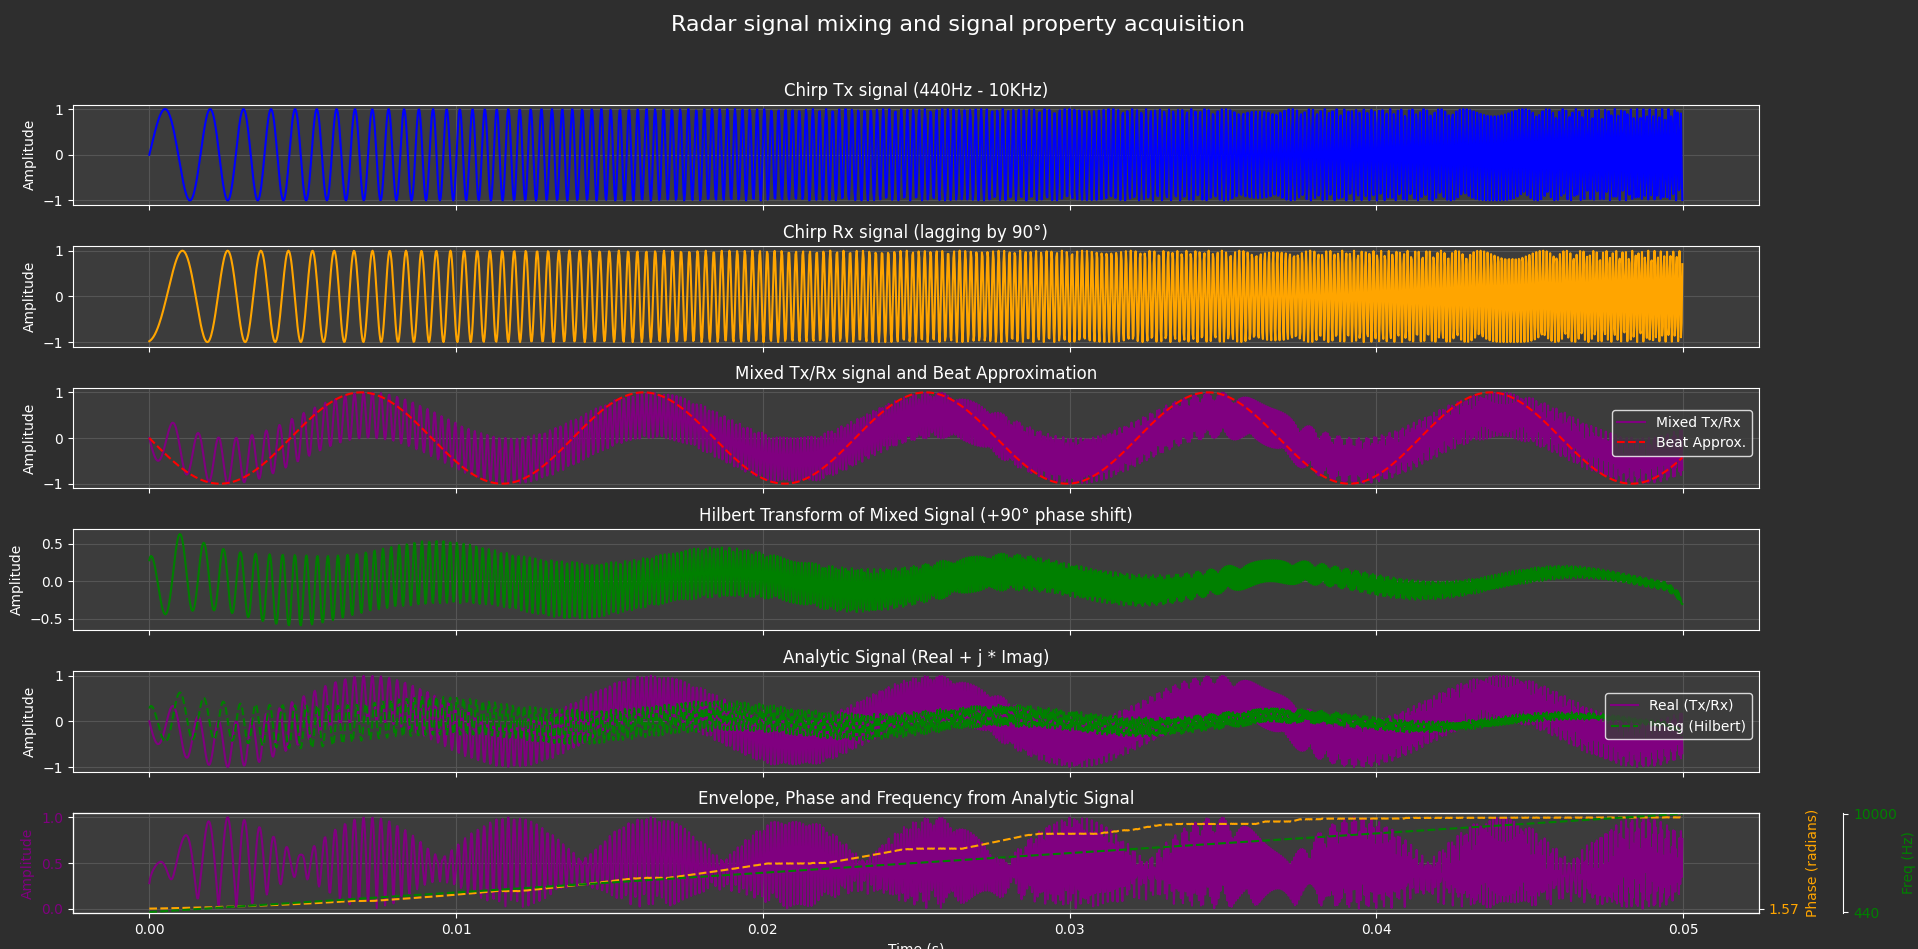
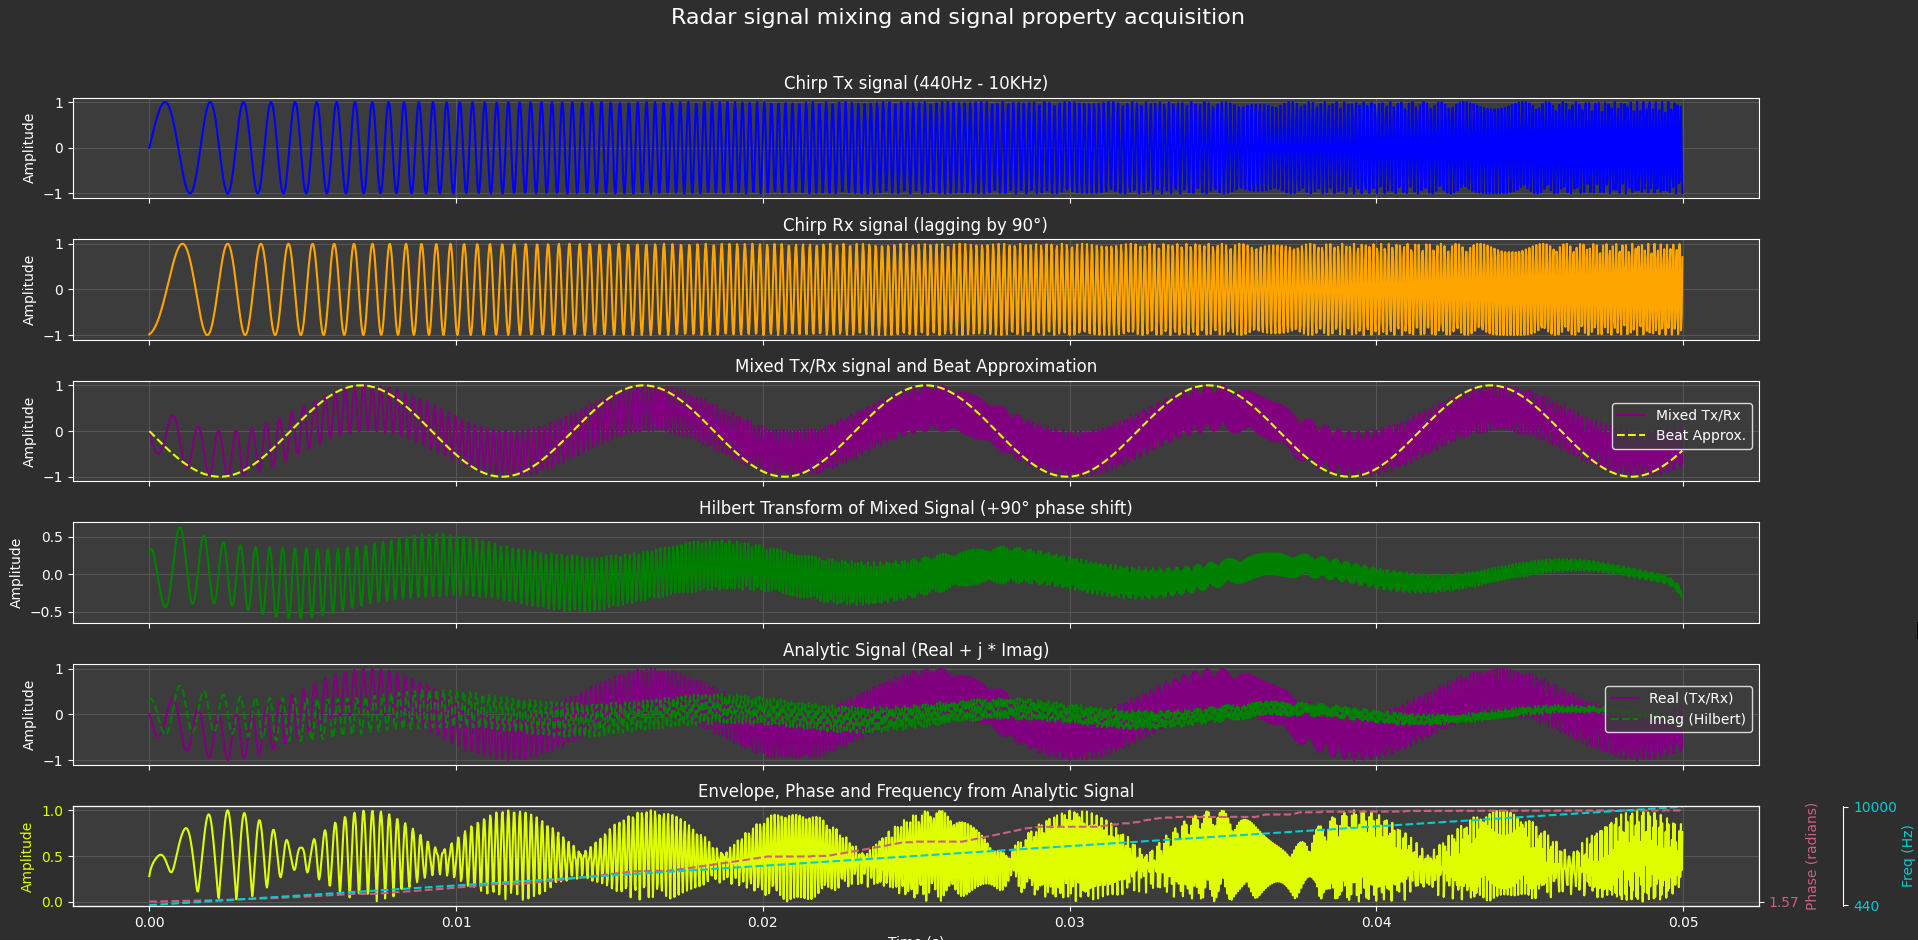
Changed some colors in the hilbert transform python plot in the radar signal mixing math documentation.

diff --git a/Documentation/Math/Radar_Signal_Mixing/fmcw_radar_signal_mixing.py b/Documentation/Math/Radar_Signal_Mixing/fmcw_radar_signal_mixing.py
@@ -131,7 +131,7 @@ def main():
     # Mixed Tx/Rx & beat signal
     axes[2].set_title("Mixed Tx/Rx signal and Beat Approximation")
     axes[2].plot(t, chirp_signal_mixed, label="Mixed Tx/Rx", color="purple")
-    axes[2].plot(t, chirp_signal_mixed_beat_approximation, label="Beat Approx.", color="red", linestyle="--")
+    axes[2].plot(t, chirp_signal_mixed_beat_approximation, label="Beat Approx.", color="#DFFF00", linestyle="--")
     axes[2].set_ylabel("Amplitude")
     axes[2].legend(loc='upper right', bbox_to_anchor=(1, 0.85))
     axes[2].grid(True)
@@ -154,15 +154,15 @@ def main():
     axes[5].set_title("Envelope, Phase and Frequency from Analytic Signal")
 
     # Primary Y-axis (Amplitude)
-    axes[5].plot(t, amplitude_envelope, label="Envelope", color="purple")
-    axes[5].set_ylabel("Amplitude", color="purple")
-    axes[5].tick_params(axis='y', labelcolor='purple')
+    axes[5].plot(t, amplitude_envelope, label="Envelope", color="#DFFF00")
+    axes[5].set_ylabel("Amplitude", color="#DFFF00")
+    axes[5].tick_params(axis='y', labelcolor='#DFFF00')
 
     # Secondary Y-axis (Phase)
     ax_phase = axes[5].twinx()
-    ax_phase.plot(t, instantaneous_phase, label="Phase", color="orange", linestyle="--")
-    ax_phase.set_ylabel("Phase (radians)", color="orange")
-    ax_phase.tick_params(axis='y', labelcolor='orange')
+    ax_phase.plot(t, instantaneous_phase, label="Phase", color="#CD607E", linestyle="--")
+    ax_phase.set_ylabel("Phase (radians)", color="#CD607E")
+    ax_phase.tick_params(axis='y', labelcolor='#CD607E')
     ax_phase.set_yticks([phi])
     ax_phase.set_yticklabels([f"{phi:.2f}"])
 
@@ -170,9 +170,9 @@ def main():
     ax_freq = axes[5].twinx()
     ax_freq.spines["right"].set_position(("axes", 1.05))
     # ax_freq.plot(t, instantaneous_frequency, color="green", linestyle=":", label="Frequency")
-    ax_freq.plot(t, expected_instantaneous_frequency, color="green", linestyle="--", label="Expected")
-    ax_freq.set_ylabel("Freq (Hz)", color="green")
-    ax_freq.tick_params(axis='y', labelcolor='green')
+    ax_freq.plot(t, expected_instantaneous_frequency, color="#00CED1", linestyle="--", label="Expected")
+    ax_freq.set_ylabel("Freq (Hz)", color="#00CED1")
+    ax_freq.tick_params(axis='y', labelcolor='#00CED1')
     ax_freq.set_ylim(f_start - 100, f_end + 100)
     ax_freq.set_yticks([f_start, f_end])
 
